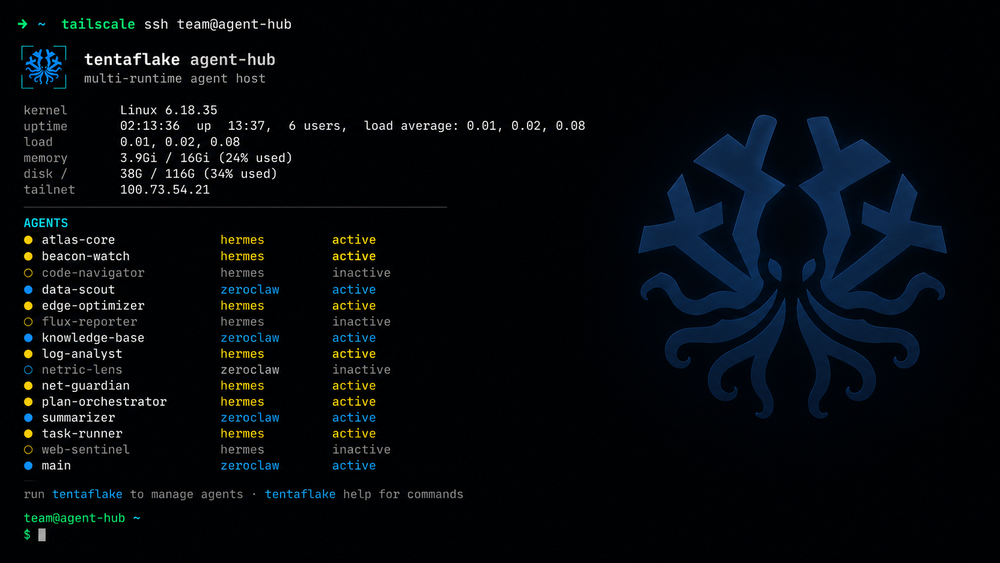
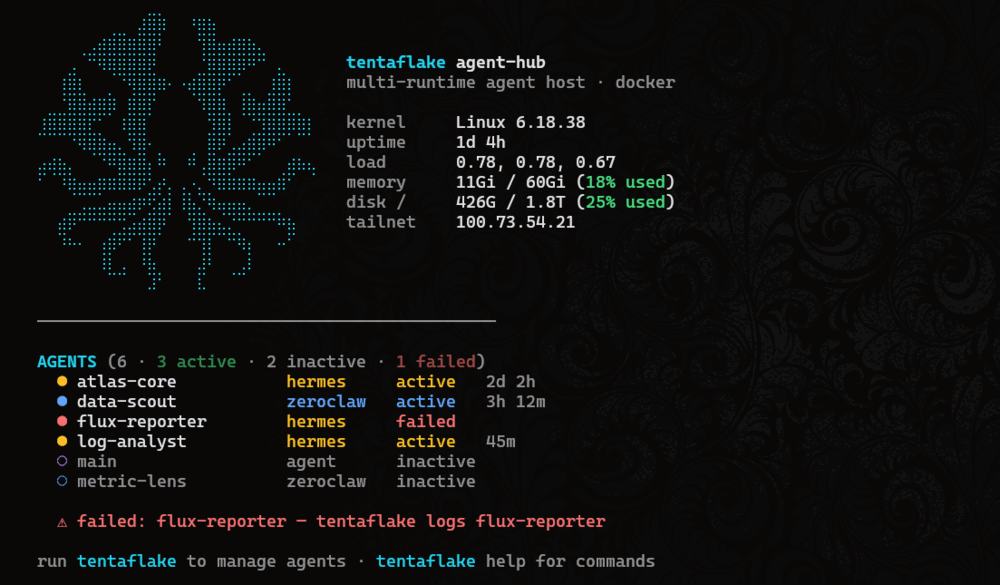
feat: TUI image update in the README.md

diff --git a/README.md b/README.md
@@ -14,7 +14,7 @@
 
 <p align="center">
   <br/>
-  <img src="public/_compressed/tentaflake-3d-realism-logo-wallpaper-16x9.png" alt="Tentaflake" width="500"/>
+  <img src="public/_compressed/tentaflake-3d-realism-logo-wallpaper-16x9.png" alt="Tentaflake" width="720"/>
   <p align="center">
     <i>Declaratively deploy & manage multiple isolated AI agents (Hermes, ZeroClaw)
     on a single NixOS machine — each with its own secrets, skills, and personality.</i>
@@ -212,6 +212,12 @@ shell: a login banner shows host + agent health across all runtimes, and the `te
 command drives the agent containers (`tentaflake status`, `tentaflake logs <name>`,
 `tentaflake restart <name>`, `tentaflake shell <name>`). A deprecated `hermes` shim
 still works and execs `tentaflake` with a warning. See [`docs/06-shell.md`](docs/06-shell.md).
+
+<p align="center">
+  <img src="public/_compressed/tentaflake-tui-ui.png" alt="Tentaflake login banner — agent roster on SSH" width="820"/>
+  <br/>
+  <sub>SSH into the host and the login banner shows every agent — Hermes and ZeroClaw — with live status.</sub>
+</p>
 
 Then follow the [quickstart guide](docs/01-quickstart.md) to set up agent providers and start chatting.
 
@@ -472,12 +478,6 @@ docker ps --filter "name=zeroclaw-"      # list running ZeroClaw agents
 docker logs hermes-coding                # view agent logs
 docker exec -it hermes-coding hermes chat  # chat with a Hermes agent
 ```
-
-<p align="center">
-  <img src="public/_compressed/tentaflake-tui-ui.png" alt="Tentaflake login banner — agent roster on SSH" width="700"/>
-  <br/>
-  <sub>SSH into the host and the login banner shows every agent — Hermes and ZeroClaw — with live status.</sub>
-</p>
 
 ---
 